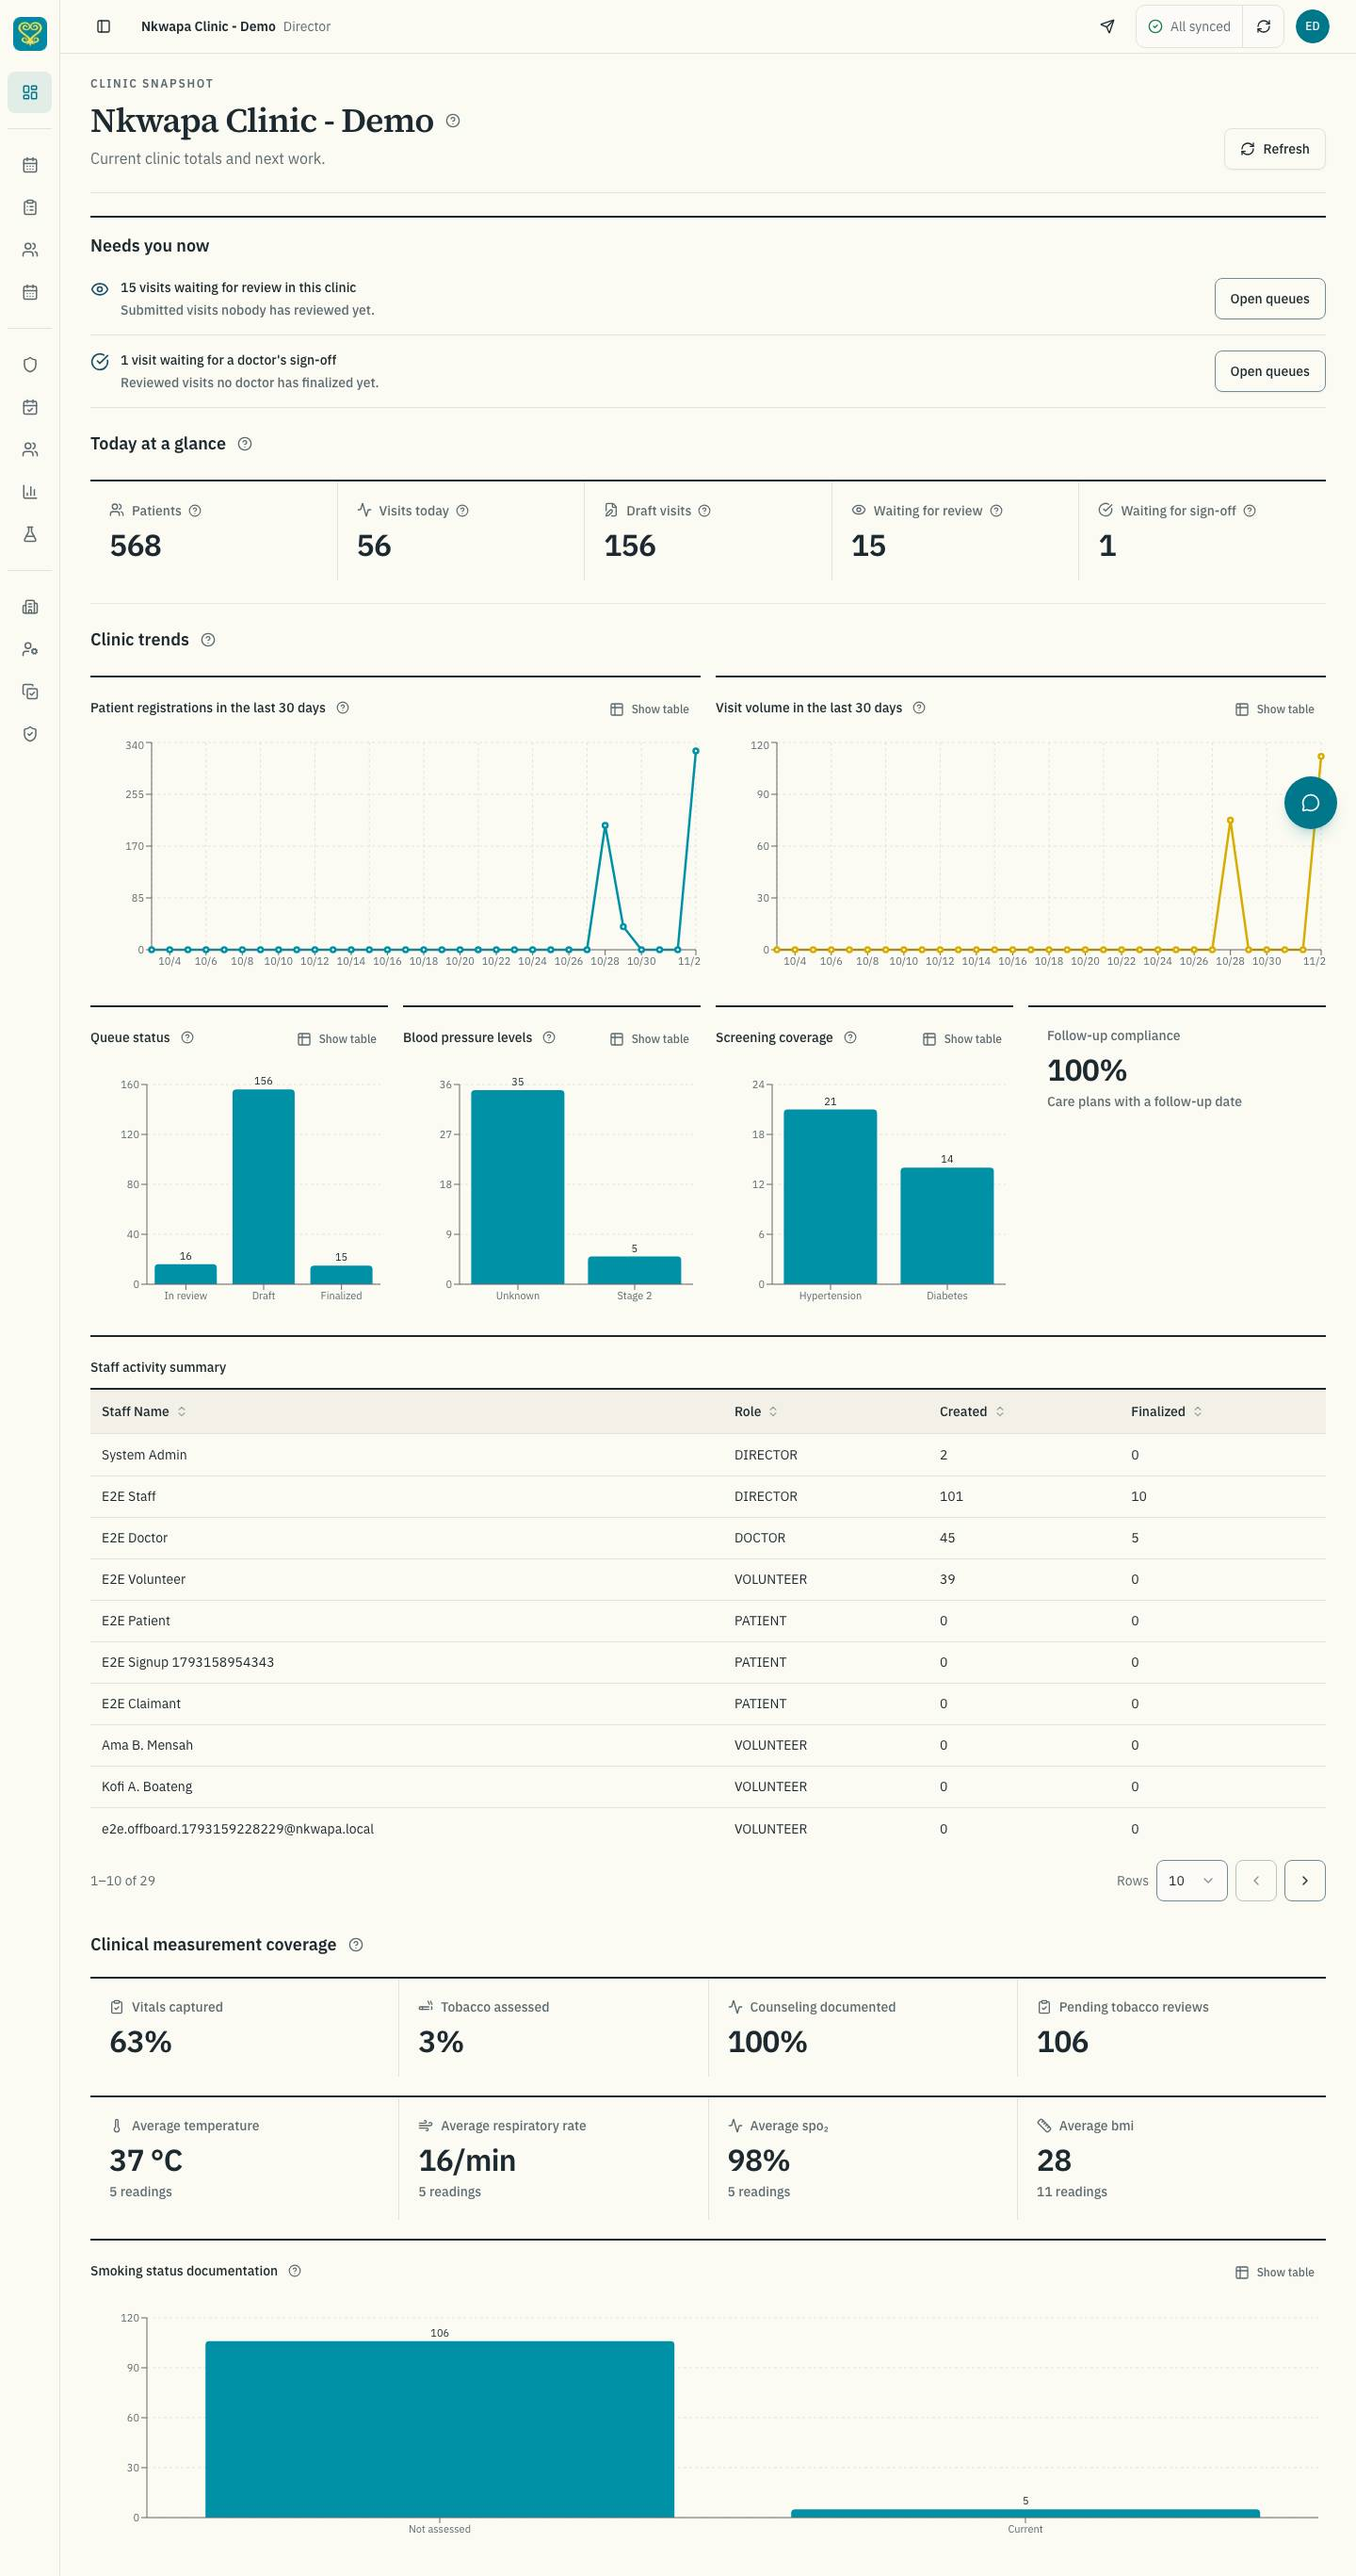
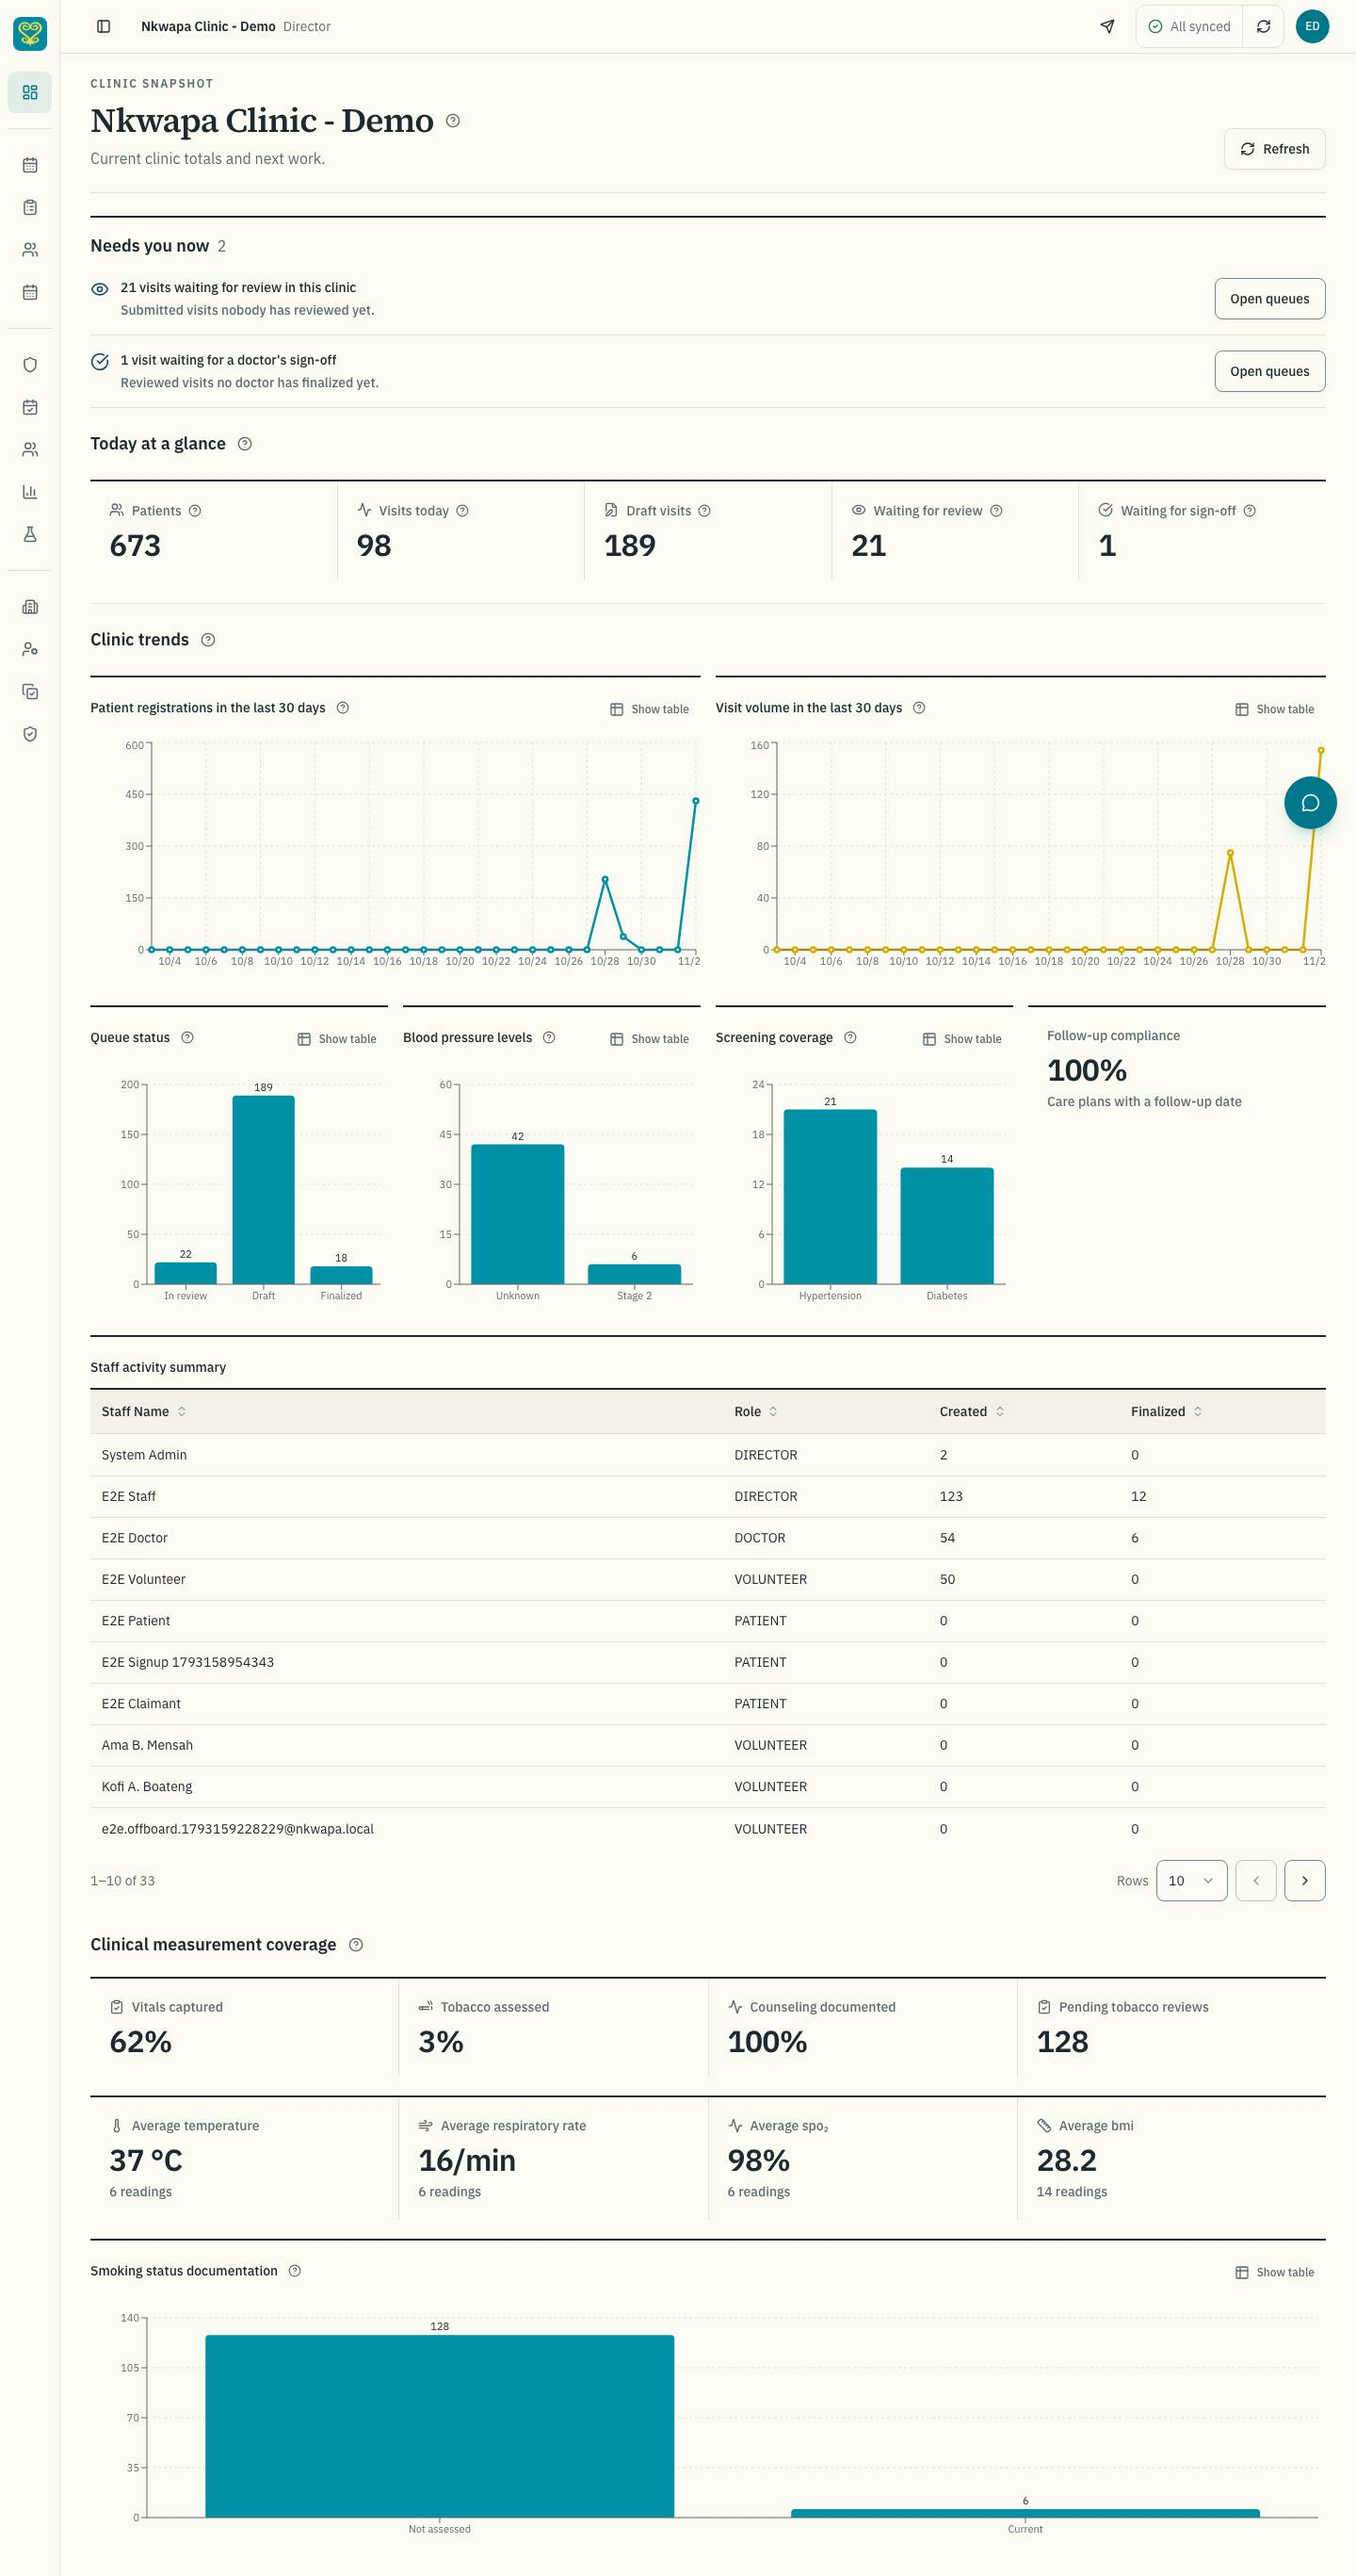
feat(web): station lanes closer to the station line design (#269)
A scale across the top, gridlines through every lane, the bar labelled with
its minutes, a Staffed column and a legend. The on-shift count moves into the
lanes, a fixed-height chart's empty note no longer holds a chart's height, and
Needs you now shows how many rows it holds.

diff --git a/apps/web/components/dashboard/StationLineLanes.tsx b/apps/web/components/dashboard/StationLineLanes.tsx
@@ -12,13 +12,21 @@ function scaleEnd(longest: number) {
   return Math.max(30, Math.ceil(longest / 10) * 10);
 }
 
+const LANE_GRID = 'sm:grid-cols-[minmax(0,13rem)_minmax(0,1fr)_4.5rem]';
+
 /**
  * The station line right now, one lane per open station. A lane's bar is the longest current
  * wait, minutes since that patient joined the station's queue (`queuedAt`), on a labelled scale.
  * Past 20 minutes it takes the warning tokens and says so in words, and a station nobody is
  * staffing says that too, so neither depends on colour. Aggregates only; no patient is named.
  */
-export function StationLineLanes({ stations }: { stations: StationMetrics['stations'] }) {
+export function StationLineLanes({
+  stations,
+  onShiftNow,
+}: {
+  stations: StationMetrics['stations'];
+  onShiftNow: number | null;
+}) {
   const open = stations.filter((station) => station.active);
   if (open.length === 0) return null;
 
@@ -29,22 +37,53 @@ export function StationLineLanes({ stations }: { stations: StationMetrics['stati
 
   return (
     <section aria-labelledby="station-line-now" className="border-t-2 border-rule-strong pt-3">
-      <h3 id="station-line-now" className="type-label pt-2.5 text-foreground">
-        Station line now
-      </h3>
-      <p className="type-label mt-1 font-normal text-muted-foreground">
-        Bars show the longest current wait at each station, from when the patient joined its queue.
-      </p>
-      <ul className="mt-2">
+      <div className="flex flex-wrap items-baseline gap-x-3 pt-2.5">
+        <h3 id="station-line-now" className="type-label text-foreground">
+          Station line now
+        </h3>
+        <p className="type-label font-normal text-muted-foreground">
+          longest wait at each station, from when the patient joined its queue
+        </p>
+      </div>
+
+      {/* Column heads and the scale, aligned with the bars' column. */}
+      <div
+        aria-hidden="true"
+        className={cn(
+          'mt-3 hidden border-b border-rule pb-1.5 text-xs text-muted-foreground sm:grid sm:gap-x-4',
+          LANE_GRID,
+        )}
+      >
+        <span>Station</span>
+        <div className="relative h-4 whitespace-nowrap tabular-nums">
+          {ticks.map((tick) => (
+            <span
+              key={tick}
+              className="absolute -translate-x-1/2 first:translate-x-0 last:-translate-x-full"
+              style={{ left: at(tick) }}
+            >
+              {tick} min
+            </span>
+          ))}
+        </div>
+        <span className="text-right">Staffed</span>
+      </div>
+
+      <ul>
         {open.map((station) => {
           const longest = station.longestCurrentWaitMinutes ?? 0;
           const waiting = station.waitingNow ?? 0;
           const long = waiting > 0 && longest > LONG_WAIT_MINUTES;
           const unstaffed = station.staffNow === 0;
+          const staffed =
+            station.staffNow === null ? null : `${station.staffNow} of ${station.capacity ?? 1}`;
           return (
             <li
               key={station.stationId}
-              className="grid gap-x-4 gap-y-1.5 border-b border-rule py-3 sm:grid-cols-[minmax(0,14rem)_minmax(0,1fr)] sm:items-center"
+              className={cn(
+                'grid gap-x-4 gap-y-1.5 border-b border-rule py-3 sm:items-center',
+                LANE_GRID,
+              )}
               data-testid="station-lane"
             >
               <div className="min-w-0">
@@ -55,7 +94,7 @@ export function StationLineLanes({ stations }: { stations: StationMetrics['stati
                     : `${waiting} waiting, longest ${formatMinutes(longest)}`}
                 </p>
                 {long || unstaffed ? (
-                  <p className="type-label mt-0.5 flex flex-wrap gap-x-3 text-warning-ink">
+                  <p className="type-label mt-0.5 flex flex-wrap gap-x-3 font-normal text-warning-ink">
                     {long ? (
                       <span className="inline-flex items-center gap-1">
                         <AlertTriangle aria-hidden="true" className="h-3.5 w-3.5" />
@@ -71,38 +110,55 @@ export function StationLineLanes({ stations }: { stations: StationMetrics['stati
                   </p>
                 ) : null}
               </div>
-              {/* The words above carry the reading; the bar is the same figure drawn. */}
-              <div aria-hidden="true" className="relative h-3 rounded-sm bg-muted">
-                <div
-                  className={cn(
-                    'absolute inset-y-0 left-0 rounded-sm',
-                    long ? 'bg-warning' : 'bg-chart-1',
-                  )}
-                  style={{ width: waiting ? at(longest) : '0%' }}
-                />
-                <div
-                  className="absolute -inset-y-1 border-l border-dashed border-foreground/50"
-                  style={{ left: at(LONG_WAIT_MINUTES) }}
-                />
+              {/* The words beside it carry the reading; the bar is the same figure drawn. */}
+              <div aria-hidden="true" className="relative h-7 sm:h-auto sm:self-stretch">
+                {ticks.map((tick) => (
+                  <div
+                    key={tick}
+                    className={cn(
+                      'absolute -inset-y-1 border-l sm:-inset-y-3',
+                      tick === LONG_WAIT_MINUTES ? 'border-dashed border-warning' : 'border-rule',
+                    )}
+                    style={{ left: at(tick) }}
+                  />
+                ))}
+                {waiting ? (
+                  <div
+                    className={cn(
+                      'absolute left-0 top-1/2 flex h-6 -translate-y-1/2 items-center overflow-hidden whitespace-nowrap rounded-sm px-2 text-xs tabular-nums',
+                      long
+                        ? 'border border-warning bg-warning-surface text-warning-ink'
+                        : 'bg-chart-1 text-background',
+                    )}
+                    style={{ width: at(Math.max(longest, end / 15)) }}
+                  >
+                    {formatMinutes(longest)}
+                  </div>
+                ) : null}
               </div>
+              <p className="type-label font-normal tabular-nums text-muted-foreground sm:text-right">
+                {staffed ? (
+                  <>
+                    <span className="sm:sr-only">Staffed </span>
+                    {staffed}
+                  </>
+                ) : null}
+              </p>
             </li>
           );
         })}
       </ul>
-      {/* The scale, aligned with the bars' column. */}
-      <div className="grid gap-x-4 pt-1.5 sm:grid-cols-[minmax(0,14rem)_minmax(0,1fr)]">
-        <span className="hidden sm:block" />
-        <div aria-hidden="true" className="relative h-5 text-xs tabular-nums text-muted-foreground">
-          {ticks.map((tick) => (
-            <span
-              key={tick}
-              className="absolute -translate-x-1/2 first:translate-x-0 last:-translate-x-full"
-              style={{ left: at(tick) }}
-            >
-              {tick} min
-            </span>
-          ))}
-        </div>
+
+      <div className="mt-3 flex flex-wrap items-center gap-x-5 gap-y-1 text-xs text-muted-foreground">
+        <span aria-hidden="true" className="inline-flex items-center gap-1.5">
+          <span className="h-3 w-5 rounded-sm bg-chart-1" />
+          Longest wait
+        </span>
+        <span aria-hidden="true" className="inline-flex items-center gap-1.5">
+          <span className="h-3 w-5 rounded-sm border border-warning bg-warning-surface" />
+          Over {LONG_WAIT_MINUTES} minutes
+        </span>
+        {onShiftNow !== null ? <span>{onShiftNow} staff on shift now.</span> : null}
       </div>
       <p className="sr-only">
         Scale from 0 to {end} minutes; the dashed line marks {LONG_WAIT_MINUTES} minutes.

diff --git a/apps/web/components/dashboard/StationFlowDashboard.tsx b/apps/web/components/dashboard/StationFlowDashboard.tsx
@@ -118,7 +118,9 @@ export function StationFlowDashboard({ clinicId }: { clinicId: string }) {
       </div>
 
       {/* Right now first: who is waiting where, before the day's aggregates. */}
-      {metrics?.live && !error ? <StationLineLanes stations={metrics.stations} /> : null}
+      {metrics?.live && !error ? (
+        <StationLineLanes stations={metrics.stations} onShiftNow={metrics.staffing.onShiftNow} />
+      ) : null}
 
       {error ? (
         <InlineErrorState
@@ -368,12 +370,6 @@ export function StationFlowDashboard({ clinicId }: { clinicId: string }) {
               </ResponsiveContainer>
             </ChartFrame>
           </div>
-
-          {metrics.live && metrics.staffing.onShiftNow !== null ? (
-            <p className="text-sm text-muted-foreground">
-              {metrics.staffing.onShiftNow} staff on shift now.
-            </p>
-          ) : null}
         </>
       ) : null}
     </section>

diff --git a/apps/web/components/dashboard/NeedsYouNow.tsx b/apps/web/components/dashboard/NeedsYouNow.tsx
@@ -138,9 +138,17 @@ export function NeedsYouNow({ volunteer, doctor, review, clinic, worklistHref }:
 
   return (
     <section aria-labelledby="needs-you-now" className="border-t-2 border-rule-strong pt-4">
-      <h2 id="needs-you-now" className="type-section-title text-foreground">
-        Needs you now
-      </h2>
+      <div className="flex items-baseline gap-2">
+        <h2 id="needs-you-now" className="type-section-title text-foreground">
+          Needs you now
+        </h2>
+        {rows.length ? (
+          <span className="type-body tabular-nums text-muted-foreground">
+            {rows.length}
+            <span className="sr-only"> {rows.length === 1 ? 'item' : 'items'}</span>
+          </span>
+        ) : null}
+      </div>
       {/* Own work, in the first screen on a phone, before any clinic-wide figure. */}
       {volunteer ? (
         <p className="type-body mt-1 text-muted-foreground">

diff --git a/apps/web/components/dashboard/ChartFrame.tsx b/apps/web/components/dashboard/ChartFrame.tsx
@@ -61,7 +61,8 @@ export function ChartFrame({
         ) : null}
       </div>
       {!hasData ? (
-        <div className="h-[240px] sm:h-[260px]">{empty}</div>
+        // A fixed-height chart's empty note needs no room for a chart.
+        <div className={height ? undefined : 'h-[240px] sm:h-[260px]'}>{empty}</div>
       ) : showTable ? (
         <table className="mt-2 w-full text-sm">
           <caption className="sr-only">{title}</caption>

diff --git a/docs/design-system/evidence/269/README.md b/docs/design-system/evidence/269/README.md
@@ -21,7 +21,7 @@ The #229 baseline for the staff page was 7,342px; at `cf393e7` (after #268) it m
 
 The CI E2E build has the station workflow off, so `station/before/` and `station/after/` hold a separate pair built with `NEXT_PUBLIC_FEATURE_STATION_WORKFLOW_ENABLED=true` and the API flag on, after `station-workflow.spec.js` had queued patients (`station-capture.spec.js`, manager, 1440 light, full page). Before, the station section had no lanes; after, "Station line now" leads it.
 
-In this seed no wait has passed 20 minutes, so the warning state ("Over 20 minutes", warning bar) does not appear in the images. The metrics also report `staffNow` as 0 for every station (with 2 staff on shift clinic-wide), so every lane says "No one staffing".
+By the time of the after image, one Blood pressure patient had waited 32 minutes, so that lane shows the warning state (warning bar, "Over 20 minutes"); the before image, taken earlier, had no wait that long. The metrics report `staffNow` as 0 for every station (with 2 staff on shift clinic-wide), so every lane says "No one staffing" and "0 of 1".
 
 The lanes use each station's aggregate `longestCurrentWaitMinutes` and `staffNow` from the station metrics the dashboard already fetches. There is no per-patient queue data on the dashboard, so no patient is named.
 
